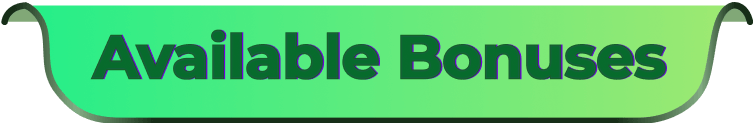
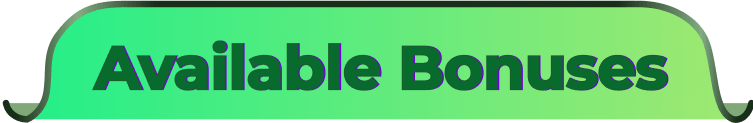
feat: [bgd] Change bonus modal style

diff --git a/bgd-static-v1/src/components/modal/BonusModal.vue b/bgd-static-v1/src/components/modal/BonusModal.vue
@@ -1,8 +1,6 @@
 <template>
-  <div class="bonus-container">
-    <q-btn icon="close" round dense v-close-popup class="bonus-close" />
-    <div class="bonus-header"><img src="../../assets/images/index/modal/bonus-header.png" /></div>
-
+  <div class="bonus-container" :class="{ 'has-top-download': hasTopDownload }">
+    <q-btn icon="close" round dense flat v-close-popup class="bonus-close" />
     <div class="bonus-content-wrapper">
       <div v-for="(mission, index) in missions" :key="index" class="mission-item">
         <img class="mission-icon" :src="mission.icon" />
@@ -30,12 +28,17 @@
         </q-btn>
       </div>
     </div>
+    <div class="bonus-header"><img src="../../assets/images/index/modal/bonus-header.png" /></div>
   </div>
 </template>
 
 <script setup>
 import { computed } from "vue";
 import { useI18n } from "vue-i18n";
+
+const props = defineProps({
+  hasTopDownload: Boolean
+});
 
 const { t } = useI18n();
 
@@ -97,6 +100,7 @@ const missions = computed(() => [
   overflow: visible;
   border-radius: 12px;
   margin-bottom: -100px;
+  margin-top: 60px;
 
   &:before {
     content: "";
@@ -108,7 +112,13 @@ const missions = computed(() => [
     height: 150px;
     position: absolute;
     left: 0;
-    top: -150px;
+    bottom: 0;
+    transform: rotate(180deg) translateY(-100%) scaleX(-1);
+    z-index: -1;
+  }
+
+  &.has-top-download {
+    margin-top: 116px;
   }
 
   .bonus-header {
@@ -120,12 +130,13 @@ const missions = computed(() => [
     img {
       display: block;
       width: 100%;
-      max-width: 320px;
+      max-width: 248px;
+      margin-bottom: -24px;
     }
   }
 
   .bonus-content-wrapper {
-    margin: 16px auto 138px;
+    margin: 0 auto 29px;
     display: flex;
     flex-direction: column;
     gap: 10px;
@@ -184,8 +195,7 @@ const missions = computed(() => [
 
 .bonus-close {
   position: absolute;
-  top: 10px;
+  bottom: 10px;
   right: 10px;
-  background: rgba(255, 255, 255, 0.1);
 }
 </style>

diff --git a/bgd-static-v1/src/components/ProfileSummary.vue b/bgd-static-v1/src/components/ProfileSummary.vue
@@ -145,7 +145,8 @@
     :class="{
       'q-pa-md': !homeProfile,
       'with-top-download': topDownload && !ui.hideDownload,
-      'with-background': isScrolled
+      'with-background': isScrolled,
+      'with-gradient-background': isBonusModal
     }"
   >
     <!-- <img src="../assets/images/earn-money/infoboard.png" v-if="!homeProfile" /> -->
@@ -283,8 +284,8 @@
       </div>
     </div>
 
-    <q-dialog v-model="isBonusModal" position="bottom">
-      <BonusModal />
+    <q-dialog v-model="isBonusModal" position="top" style="z-index: 2002">
+      <BonusModal :has-top-download="topDownload && !ui.hideDownload" />
     </q-dialog>
   </div>
 </template>
@@ -785,6 +786,10 @@ onUnmounted(() => {
 
   &.with-background {
     background: #150a08;
+  }
+
+  &.with-gradient-background {
+    background: linear-gradient(180deg, rgba(46, 112, 81, 0.39) 0%, rgba(46, 112, 81, 0.286) 100%);
   }
 
   .infoboard-wrapper {
